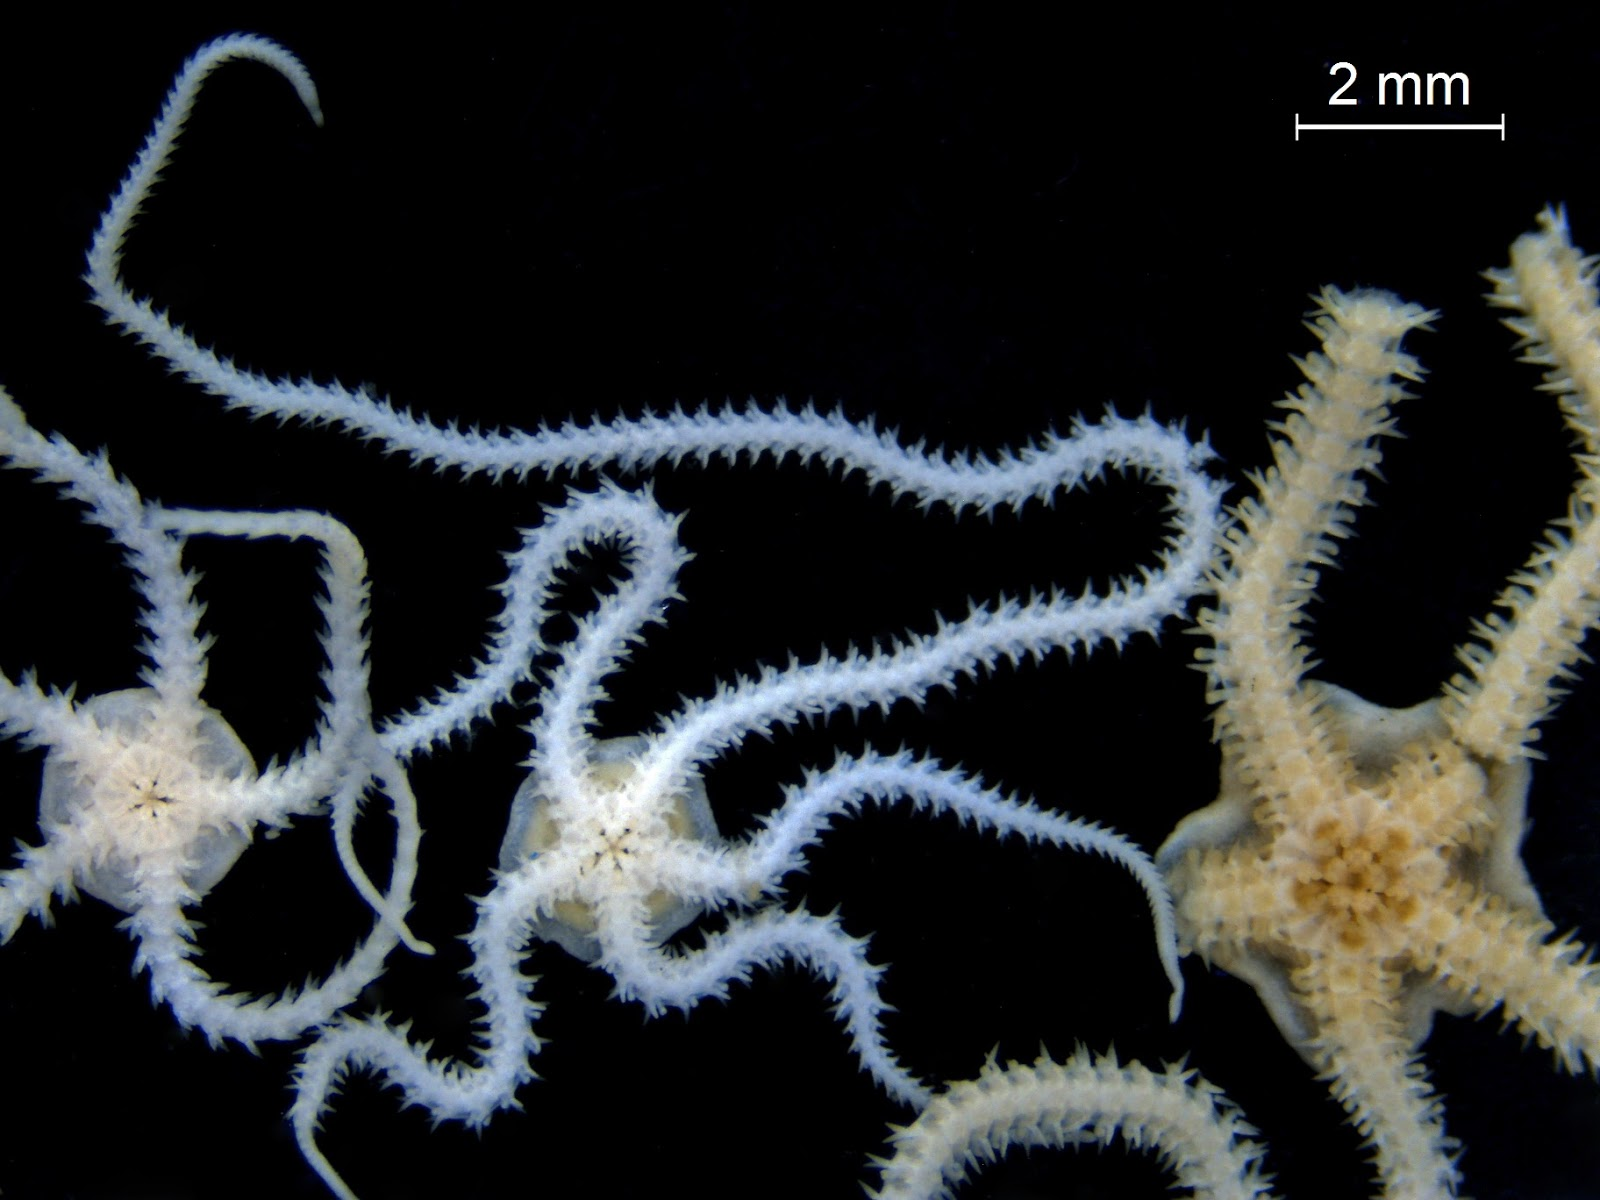
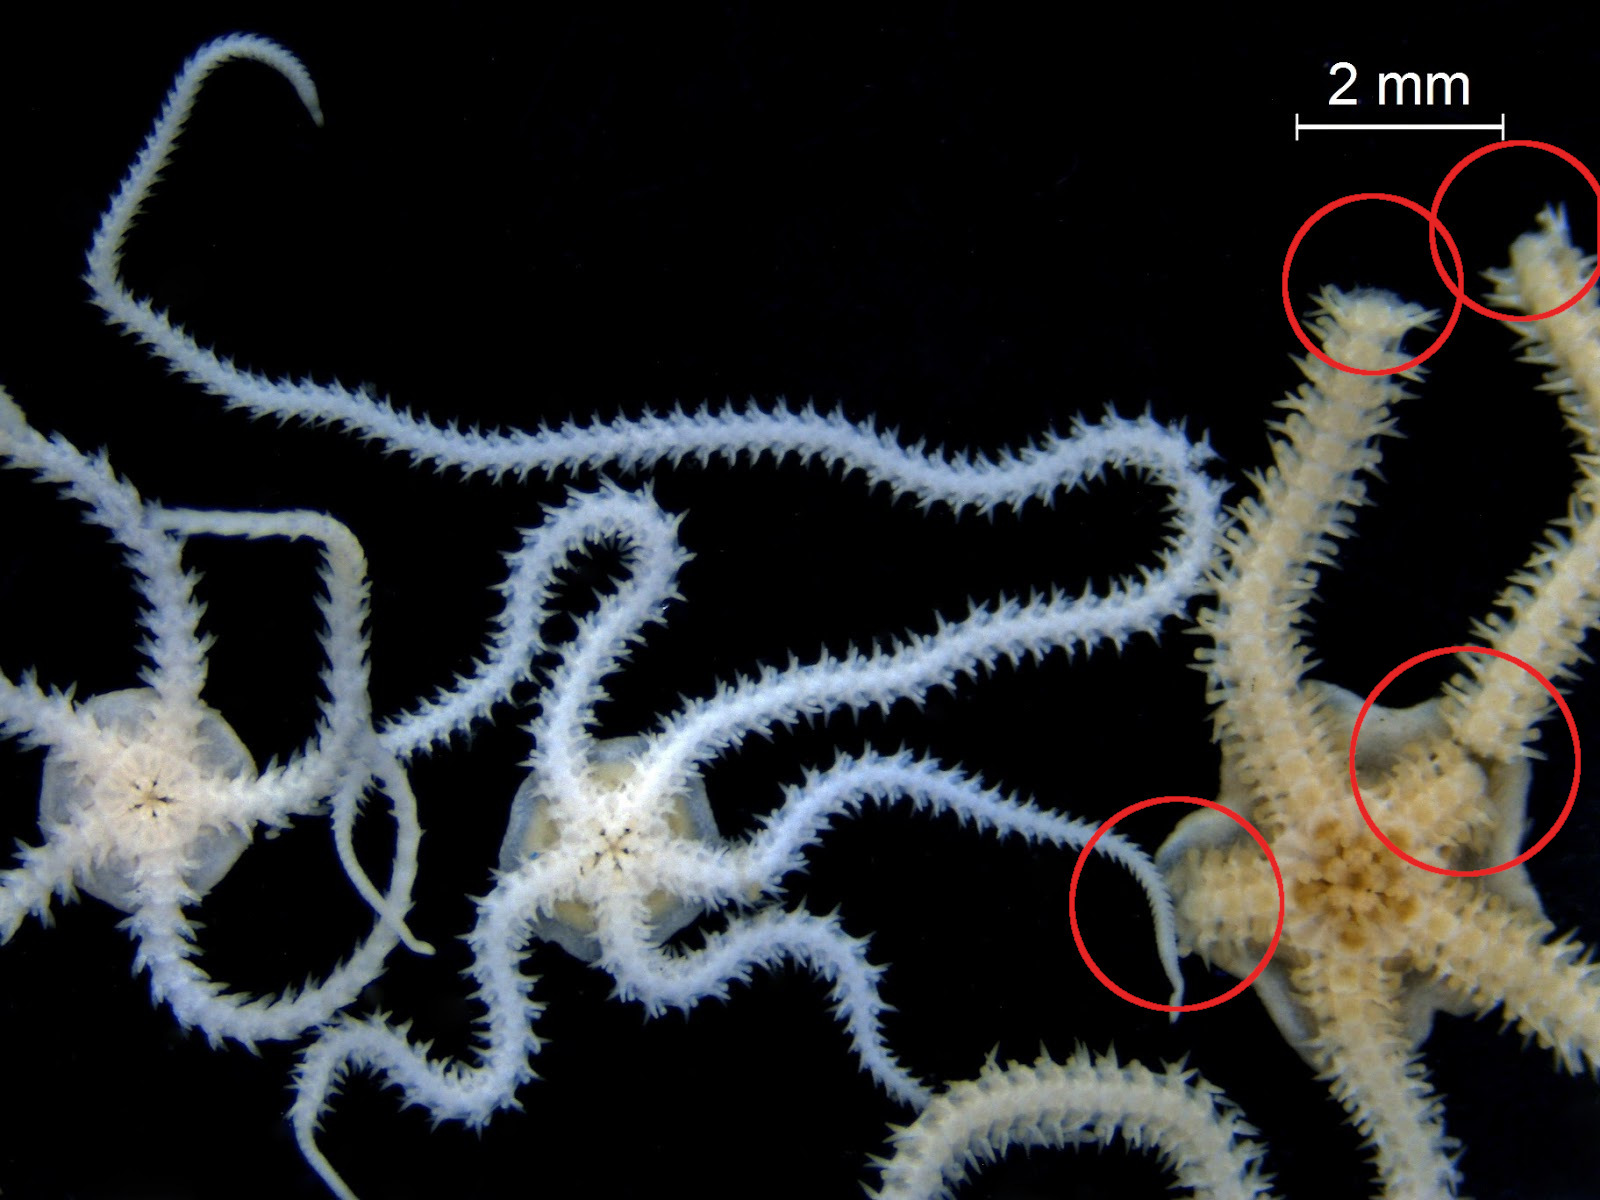
feat/poster: updated poster

diff --git a/src/brittle_star_locomotion/__main__.py b/src/brittle_star_locomotion/__main__.py
@@ -95,7 +95,7 @@ def main():
             actions = jnp.stack(all_env_actions, axis=0)
 
             # Use the standard step() method
-            *_, trajectory = env.step(actions)
+            *_, trajectory = env.step(jnp.zeros_like(actions))
             eval_trajectory.append(trajectory)
 
             if jnp.any(env.env_state.terminated):